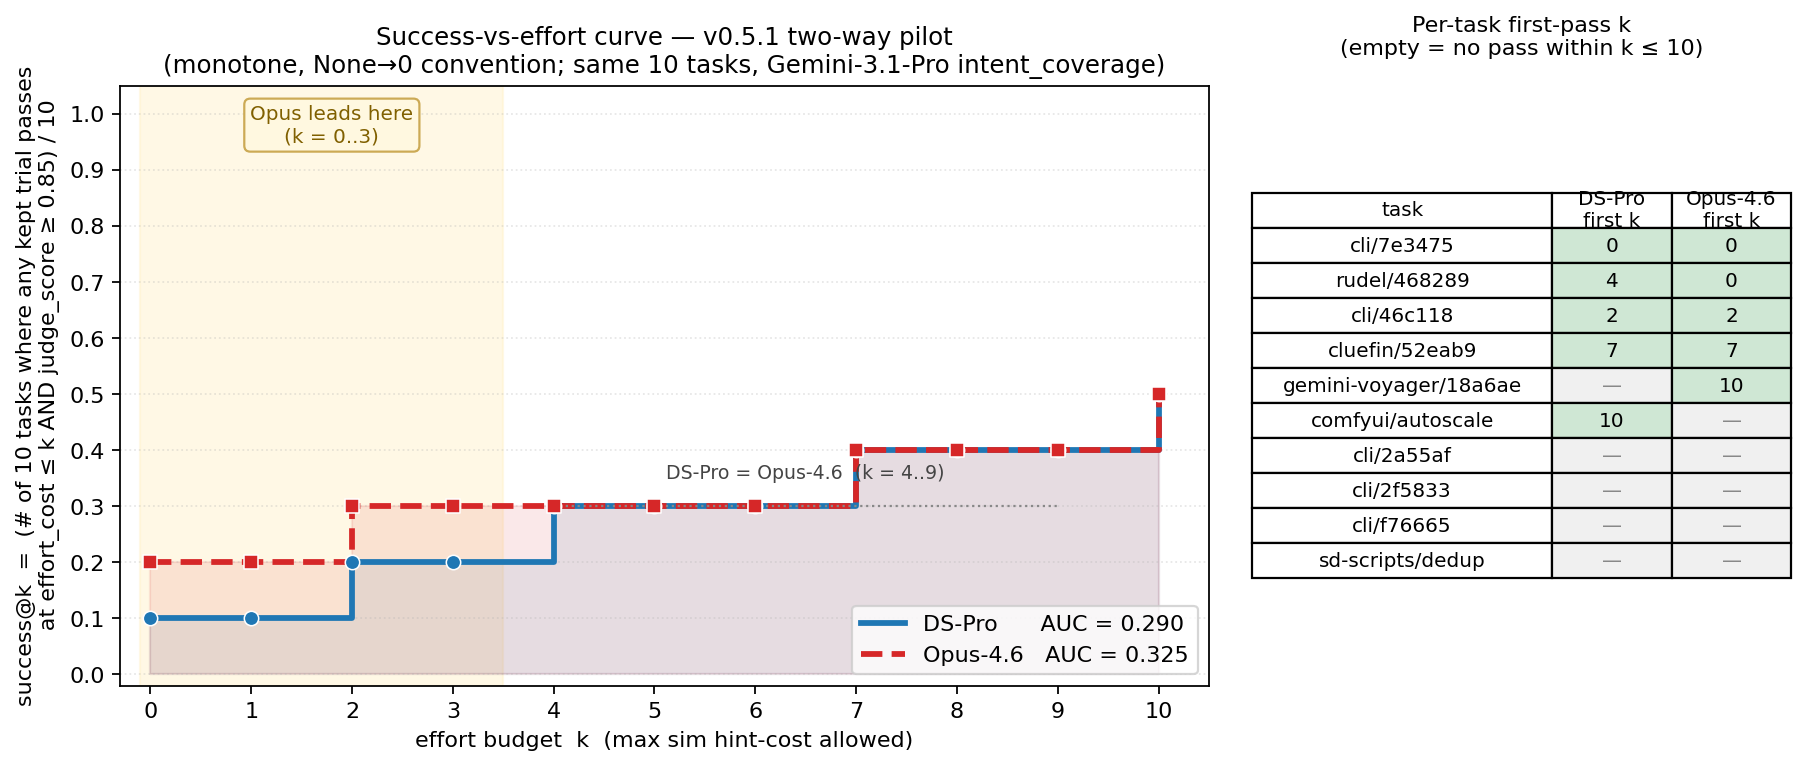
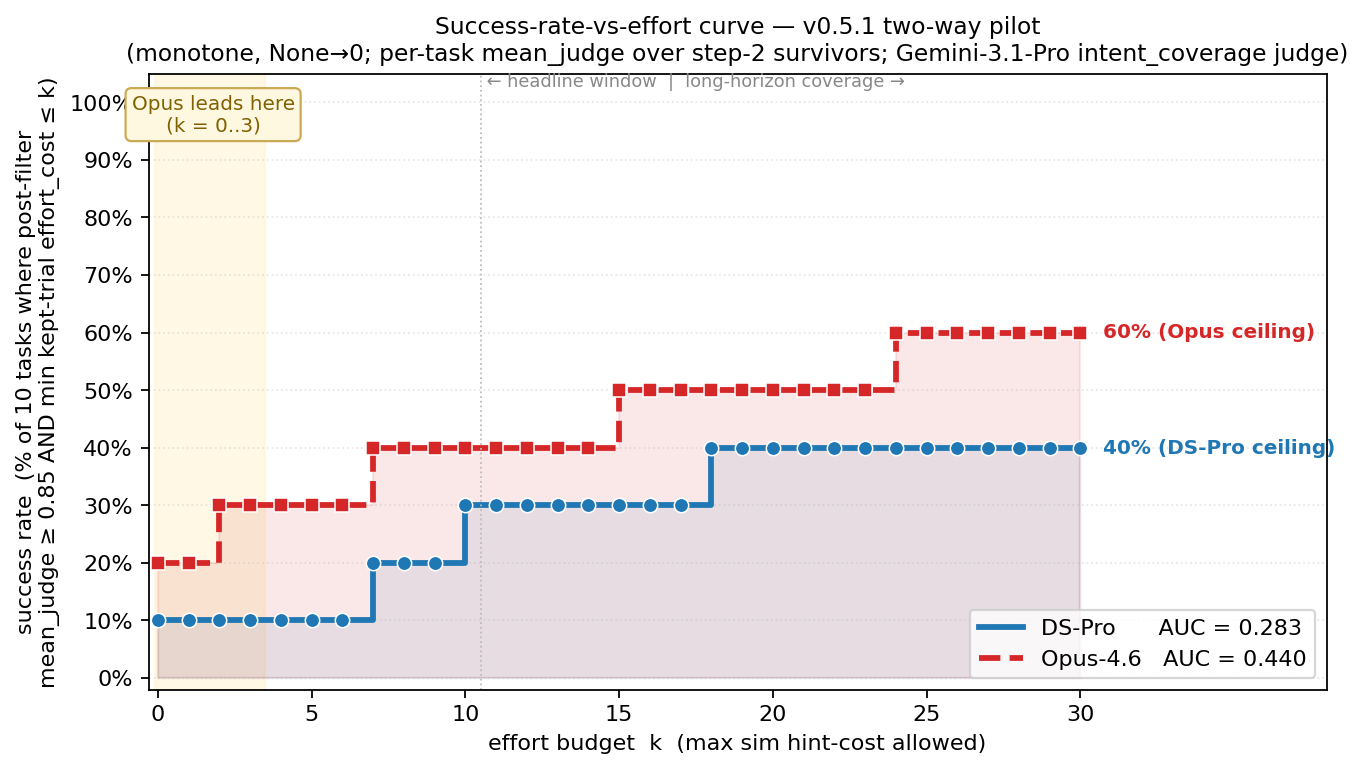
eval/pilot_study_two_way: per-task mean_judge curve + dynamic k-range
Three coupled improvements to the success-vs-effort figure based on
review feedback:

1. **Pass criterion = post-step-2 per-task mean_judge ≥ 0.85**, not
   "any individual trial passes". Earlier the chart counted a task as
   solved whenever a single trial of that task crossed the 0.85 bar,
   which mismatched what the headline `effort_AUC_mean` actually
   computes. The new criterion uses the aggregator's `mean_judge`
   over filter-surviving trials — the same number printed in the
   per-task table. Result: stricter bar, fewer "passes", but aligned
   with the leaderboard metric.

2. **Y-axis = success-rate %.** Was decimal (0.10, 0.20, …) — now
   reads 10%, 20%, … 100%. Easier to compare to the published
   headline (e.g., Opus's 60% ceiling vs DS-Pro's 40%).

3. **X-axis = dynamic, covers all task min-efforts.** Was hard-capped
   at k=10 (then k=10 + checkpoints at 20/30). Now `compute_k_range`
   walks the per-task summaries from both cohorts and extends the
   x-axis to `max(min_effort) + 3`. For the v0.5.1 pilot that yields
   k=0..30, which covers every task's eligibility-entry point — including
   long-horizon tasks like `cli-task-2a55af` (Opus min_effort=27).
   Without this dynamic span, the long-horizon tasks would be invisible
   on the curve.

Also drops the right-side per-task table from the figure layout
(redundant given the in-doc tables and the cluttered visualization
it produced).

Updated AUC under the new convention (step-function over k∈[0..30]):
[…]

Changed region(s): [[0.0, 0.0, 1.0, 0.9909], [0.1848, 0.8708, 0.3079, 0.9008]]

diff --git a/eval/pilot_study_two_way.md b/eval/pilot_study_two_way.md
@@ -39,40 +39,56 @@ re-judged by the same v2 coverage prompt to keep `effort_cost` comparable.
 | `empty_patch_rate_mean` | 0.0% | 0.0% | — |
 | `schema_warning_rate_mean` | 25.8% | 13.3% | −12.5 pp |
 
-### Success-vs-effort curve (visual)
+### Success-rate-vs-effort curve (visual)
 
-![Success-vs-effort curve — DS-Pro vs Opus-4.6](pilot_study_two_way_curve.png)
+![Success-rate-vs-effort curve — DS-Pro vs Opus-4.6](pilot_study_two_way_curve.png)
 
-**`success@k`** = (# tasks where any kept trial has `effort_cost ≤ k` AND
-`judge_score ≥ 0.85`) / **10** (all tasks, None→0). The same convention the
-headline `effort_AUC_mean` uses — monotone non-decreasing in k, no
-sampling-bias surprises. Each tick label marks the smallest k where that
-task first contributes a passing trial. Reproduced by
-[scripts/_plot_two_way_auc_curve.py](../scripts/_plot_two_way_auc_curve.py).
+**Y-axis** = `success rate` = (# of 10 tasks where the cohort's post-step-2-filter
+**mean_judge ≥ 0.85** AND any kept trial has `effort_cost ≤ k`) / 10. Uses the
+per-task mean over step-2 survivors as the pass criterion — a more conservative
+bar than "any single trial passes". The denominator is fixed at 10 (None→0
+convention; tasks that can't reach 0.85 still count, with value 0).
 
-**How to read it (left → right panel):**
-- **The yellow band marks where Opus leads** (k=0..3). Opus solves
-  `rudel-task-468289` at zero effort; DS-Pro needs k=4 to land it. This is
-  the only structural advantage in the curve.
-- **For k=4..9 the two cohorts are identical.** Both solve `cli-task-46c118`
-  at k=2, `cluefin-task-52eab9` at k=7, and otherwise nothing else within
-  that range.
-- **At k=10 they each pick up a 5th task — but a different one each.** DS-Pro
-  lands `comfyui-frontend-autoscale-layout`; Opus lands
-  `gemini-voyager-task-18a6ae` (its high-variance 0.87 trial qualifies).
-  Both end at success@10 = 0.50.
-- **Four tasks neither cohort solves within k ≤ 10**: `cli-task-2a55af`,
-  `cli-task-2f5833`, `cli-task-f76665`, `sd-scripts-reg-image-dedup`. These
-  are the genuinely hard / expensive-to-solve tasks in the pilot.
+**X-axis** is dynamic — extends to `max(min_effort across all tasks) + 3`, so
+even the long-horizon tasks (Opus `cli-task-2a55af` enters eligibility at k=27)
+fall inside the plotted range. The dotted vertical at k=10 marks where the
+published headline `effort_AUC_mean` window ends and the long-horizon coverage
+begins.
 
-**AUC (trapezoidal over k∈[0,10]):** DS-Pro **0.290**, Opus-4.6 **0.325** —
-Δ +0.035 driven entirely by the `rudel-task-468289` early-pass.
+**Structural ceilings (do not depend on effort budget):**
 
-> Note: these figure-AUC numbers differ from the headline `effort_AUC_mean`
-> (0.221 / 0.323) because the headline computes per-task AUC *before*
-> averaging across all 10 tasks; the figure-AUC integrates the already-
-> aggregated cross-task curve. Both rank Opus above DS-Pro by the same
-> direction.
+| ceiling | tasks that can NEVER pass (post-filter mean_judge < 0.85) |
+|---|---|
+| DS-Pro 40% | `cli-task-2a55af` (0.00), `cli-task-2f5833` (0.65), `cli-task-46c118` (0.84), `gemini-voyager` (0.45), `rudel-task-468289` (0.80), `sd-scripts/dedup` (0.83) |
+| Opus-4.6 60% | `cli-task-2a55af` (0.12), `cli-task-2f5833` (0.42), `comfyui-frontend-autoscale-layout` (0.78), `gemini-voyager` (0.37) |
+
+Those tasks are filtered out by the mean_judge bar regardless of effort budget;
+extending k to ∞ wouldn't change either ceiling.
+
+**Step-AUC (over the full dynamic range):**
+
+| metric | DS-Pro | Opus-4.6 | Δ (Opus − DS-Pro) |
+|---|---:|---:|---:|
+| AUC under success-rate curve | 0.283 | **0.440** | **+0.157** |
+| ceiling (max success rate) | 40% | **60%** | +20 pp |
+| `success@0` (mean judge crit) | 10% | **20%** | +10 pp |
+| `success@10` (mean judge crit) | 30% | **40%** | +10 pp |
+| `success@30` (mean judge crit) | 40% | **60%** | +20 pp |
+
+Opus leads at every k under this convention. The advantage compounds across
+the range: at k=0..3 (one task gap), through k=10 (still one task gap), out
+to k=30 (two-task gap as Opus picks up `sd-scripts/dedup` at k=15 and
+`cli-task-f76665` at k=24 while DS-Pro's mean_judge on those tasks stays
+under the 0.85 bar). Same directional ranking as the headline
+`effort_AUC_mean` (Opus 0.323 vs DS-Pro 0.221).
+
+> **Why "any-trial-passes" gave a different story:** earlier versions of
+> this chart counted a task as solved if any *individual* trial reached
+> judge ≥ 0.85, ignoring the step-2 filter's per-task aggregation. Under
+> that lenient bar, DS-Pro looked better in the long tail because high-variance
+> trials (e.g., `comfyui` 0.93 + 0.93 + 0.82 + 0.93) tipped it over. Using
+> the post-filter per-task mean — what the headline metric actually uses —
+> is stricter and aligns the figure with the leaderboard.
 
 **Reading the headline:**
 - **`mean_judge` is essentially identical** (Δ +0.02). Across the 10 tasks, both agents